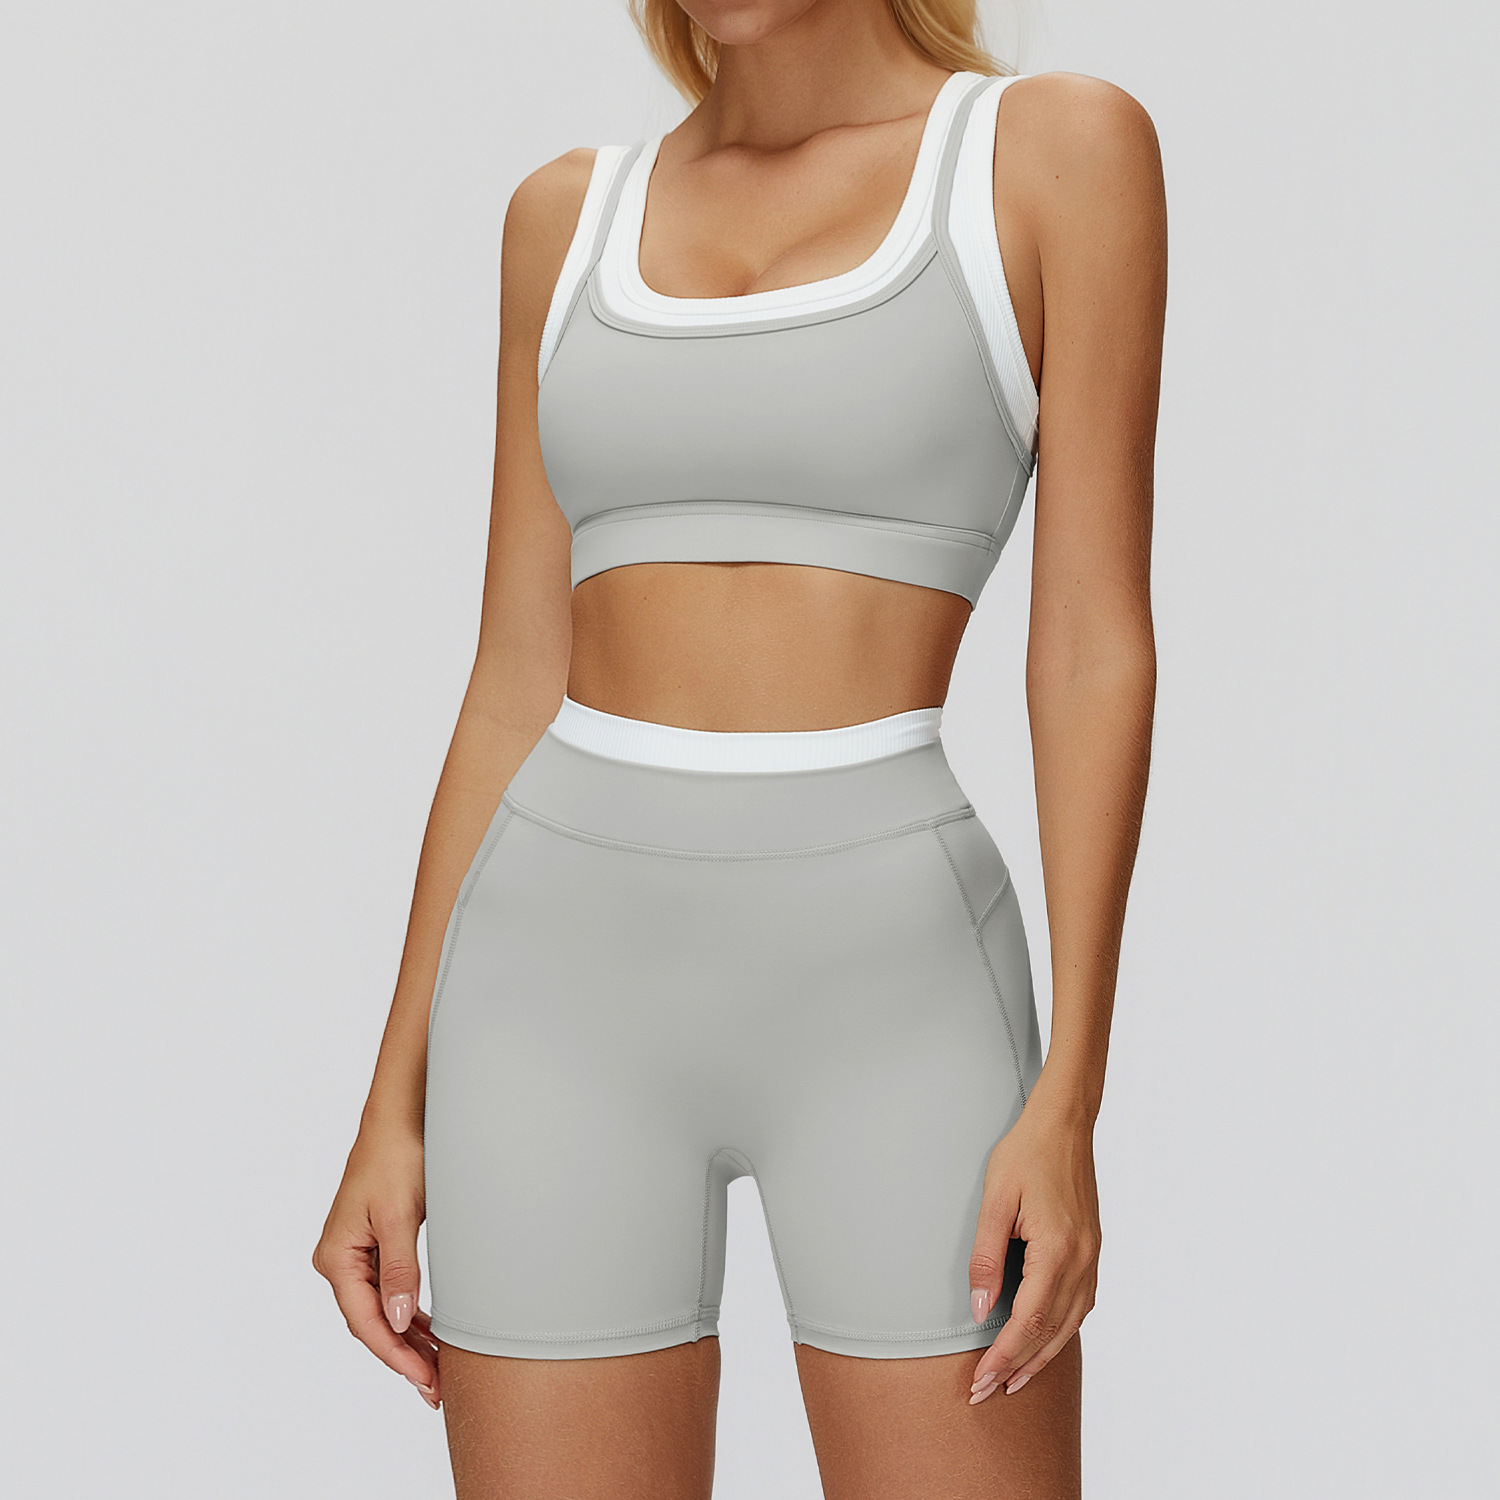
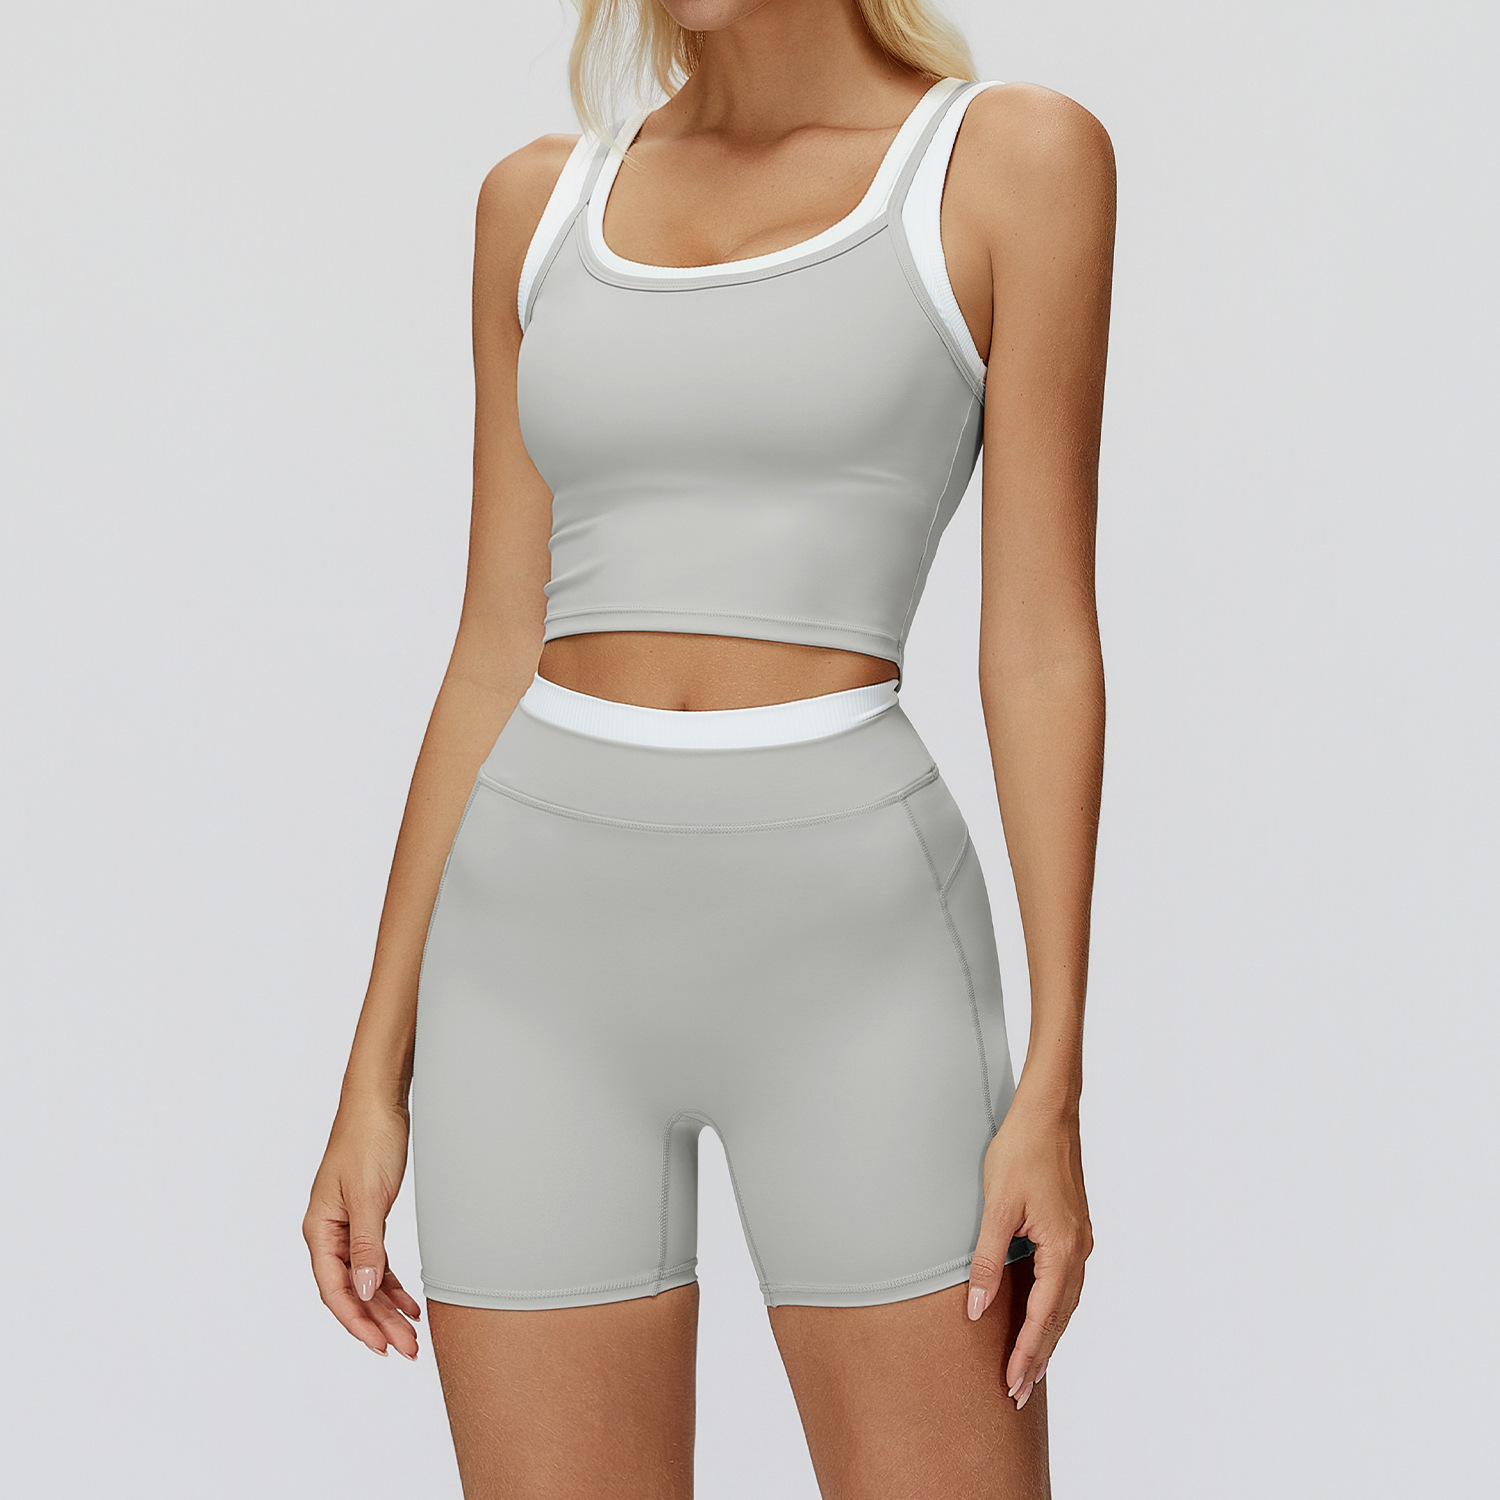
price fix

Changed region(s): [[0.184, 0.0, 0.7973, 1.0]]

diff --git a/app/plugins/paystack.client.ts b/app/plugins/paystack.client.ts
@@ -1,74 +1,12 @@
-const PAYSTACK_SCRIPT_SRC = 'https://js.paystack.co/v1/inline.js'
-
-type PaystackTransactionOptions = Record<string, unknown>
-
-type PaystackSetup = {
-  setup: (options: PaystackTransactionOptions) => {
-    openIframe: () => void
-  }
-}
-
-type PaystackWindow = Window & {
-  PaystackPop?: PaystackSetup
-}
+import PaystackPop, { type PaystackTransactionOptions } from '@paystack/inline-js'
 
 type CreatePaystackTransaction = (options: PaystackTransactionOptions) => Promise<unknown>
 
-let paystackScriptPromise: Promise<PaystackSetup> | undefined
-
-const getPaystack = () => (window as PaystackWindow).PaystackPop
-
-const loadPaystack = () => {
-  const currentPaystack = getPaystack()
-
-  if (currentPaystack) {
-    return Promise.resolve(currentPaystack)
-  }
-
-  if (!paystackScriptPromise) {
-    paystackScriptPromise = new Promise((resolve, reject) => {
-      const existingScript = document.querySelector<HTMLScriptElement>(
-        `script[src="${PAYSTACK_SCRIPT_SRC}"]`,
-      )
-
-      const resolvePaystack = () => {
-        const loadedPaystack = getPaystack()
-
-        if (loadedPaystack) {
-          resolve(loadedPaystack)
-        } else {
-          reject(new Error('Paystack script loaded without PaystackPop.'))
-        }
-      }
-
-      if (existingScript) {
-        existingScript.addEventListener('load', resolvePaystack, { once: true })
-        existingScript.addEventListener('error', () => reject(new Error('Paystack script failed.')), {
-          once: true,
-        })
-        return
-      }
-
-      const script = document.createElement('script')
-      script.async = true
-      script.src = PAYSTACK_SCRIPT_SRC
-      script.addEventListener('load', resolvePaystack, { once: true })
-      script.addEventListener('error', () => reject(new Error('Paystack script failed.')), {
-        once: true,
-      })
-      document.head.appendChild(script)
-    })
-  }
-
-  return paystackScriptPromise
-}
+const paystack = new PaystackPop()
 
 export default defineNuxtPlugin(() => {
   const createPaystackTransaction: CreatePaystackTransaction = async (options) => {
-    const paystack = await loadPaystack()
-    const handler = paystack.setup(options)
-
-    handler.openIframe()
+    return paystack.newTransaction(options)
   }
 
   return {

diff --git a/app/data/homeContent.ts b/app/data/homeContent.ts
@@ -30,7 +30,7 @@ export const products: HomepageProduct[] = [
   {
     name: 'Jackets',
     slug: 'jackets',
-    priceKes: 7800,
+    priceKes: 3780,
     category: 'Outerwear',
     colours: [
       { name: 'Black', value: '#111111', imageUrl: '/images/products/Jackets/b-2.jpg' },
@@ -57,7 +57,7 @@ export const products: HomepageProduct[] = [
   {
     name: 'Long Sleeve, Round Neck',
     slug: 'long-sleeve-round-neck',
-    priceKes: 8200,
+    priceKes: 2680,
     category: 'Tops',
     colours: [
       { name: 'Black', value: '#111111', imageUrl: '/images/products/Long sleeve, round neck/b-t.jpg' },
@@ -85,29 +85,20 @@ export const products: HomepageProduct[] = [
   {
     name: 'Long Sleeve, Swirl Neck',
     slug: 'long-sleeve-swirl-neck',
-    priceKes: 7600,
+    priceKes: 2980,
     category: 'Tops',
     colours: [
       { name: 'Black', value: '#111111', imageUrl: '/images/products/Long sleeve, swirl neck/bb-sw.jpg' },
-      { name: 'Blue', value: '#253b54', imageUrl: '/images/products/Long sleeve, swirl neck/bl-sw.jpg' },
       { name: 'Brown', value: '#6f4631', imageUrl: '/images/products/Long sleeve, swirl neck/br-sw.jpg' },
-      { name: 'Green', value: '#586447', imageUrl: '/images/products/Long sleeve, swirl neck/gr-sw.jpg' },
       { name: 'Off white', value: '#efe7dc', imageUrl: '/images/products/Long sleeve, swirl neck/ow-sw.jpg' },
-      { name: 'Pink', value: '#d8a0a7', imageUrl: '/images/products/Long sleeve, swirl neck/pi-sw.jpg' },
-      { name: 'Red', value: '#9f2526', imageUrl: '/images/products/Long sleeve, swirl neck/rd-sw.jpg' },
     ],
     isNew: true,
-    imageUrl: '/images/products/Long sleeve, swirl neck/bb-sw.jpg',
+    imageUrl: '/images/products/Long sleeve, swirl neck/bl-sw.jpg',
     imageTone: 'linear-gradient(135deg, #000000, #4a481d)',
     galleryImages: [
-      '/images/products/Long sleeve, swirl neck/bb-sw.jpg',
       '/images/products/Long sleeve, swirl neck/bl-sw.jpg',
       '/images/products/Long sleeve, swirl neck/br-sw.jpg',
-      '/images/products/Long sleeve, swirl neck/gr-sw.jpg',
-      '/images/products/Long sleeve, swirl neck/gu-sw.jpg',
       '/images/products/Long sleeve, swirl neck/ow-sw.jpg',
-      '/images/products/Long sleeve, swirl neck/pi-sw.jpg',
-      '/images/products/Long sleeve, swirl neck/rd-sw.jpg',
       '/images/products/Long sleeve, swirl neck/details.png',
     ],
     sizeGuideText:
@@ -116,33 +107,31 @@ export const products: HomepageProduct[] = [
   {
     name: 'Minit T-Shirt',
     slug: 'minit-t-shirt',
-    priceKes: 2800,
+    priceKes: 2980,
     category: 'Tops',
     colours: [
-      { name: 'Black', value: '#111111', imageUrl: '/images/products/Mini T-Shirt/mini black tshirt.jpg' },
-      { name: 'Blue', value: '#253b54', imageUrl: '/images/products/Mini T-Shirt/mini black tshirt BLUE.jpg' },
-      { name: 'Brown', value: '#6f4631', imageUrl: '/images/products/Mini T-Shirt/mini black tshirt BROWN.jpg' },
+      { name: 'Black', value: '#111111', imageUrl: '/images/products/Mini T-Shirt/creme.jpg' },
+      { name: 'Blue', value: '#253b54', imageUrl: '/images/products/Mini T-Shirt/black.jpg' },
+      { name: 'Brown', value: '#6f4631', imageUrl: '/images/products/Mini T-Shirt/brown.jpg' },
       {
         name: 'Red Stripe',
         value: 'repeating-linear-gradient(90deg, #111111 0 8px, #9f2526 8px 14px)',
-        imageUrl: '/images/products/Mini T-Shirt/mini black tshirt RED STRIPE.jpg',
+        imageUrl: '/images/products/Mini T-Shirt/brown.jpg',
       },
     ],
     isNew: true,
-    imageUrl: '/images/products/Mini T-Shirt/mini black tshirt.jpg',
+    imageUrl: '/images/products/Mini T-Shirt/black.jpg',
     imageTone: 'linear-gradient(135deg, #111111, #253b54)',
     galleryImages: [
-      '/images/products/Mini T-Shirt/mini black tshirt.jpg',
-      '/images/products/Mini T-Shirt/mini black tshirt BLUE.jpg',
-      '/images/products/Mini T-Shirt/mini black tshirt BLUE BACK.jpg',
-      '/images/products/Mini T-Shirt/mini black tshirt BROWN.jpg',
-      '/images/products/Mini T-Shirt/mini black tshirt RED STRIPE.jpg',
+      '/images/products/Mini T-Shirt/black.jpg',
+      '/images/products/Mini T-Shirt/brown.jpg',
+      '/images/products/Mini T-Shirt/creme.jpg',
     ],
   },
   {
     name: 'Sahara Corsage Set',
     slug: 'sahara-corsage-set',
-    priceKes: 6200,
+    priceKes: 5060,
     category: 'Sets',
     colours: [
       { name: 'Beige', value: '#d7d4c9', imageUrl: '/images/products/Sahara/beige.jpg' },
@@ -161,7 +150,7 @@ export const products: HomepageProduct[] = [
   {
     name: 'Strappy Bra',
     slug: 'strappy-bra',
-    priceKes: 2800,
+    priceKes: 2680,
     category: 'Tops',
     colours: [
       { name: 'Black', value: '#111111', imageUrl: '/images/products/Bra/black.jpg' },
@@ -180,7 +169,7 @@ export const products: HomepageProduct[] = [
   {
     name: 'Cropped Training Tee',
     slug: 'cropped-training-tee',
-    priceKes: 2800,
+    priceKes: 2980,
     category: 'Tops',
     colours: [
       { name: 'Black', value: '#111111', imageUrl: '/images/products/Tops/black.jpg' },
@@ -199,23 +188,19 @@ export const products: HomepageProduct[] = [
   {
     name: 'Nuru Short Set',
     slug: 'nuru-short-set',
-    priceKes: 6200,
+    priceKes: 4920,
     category: 'Sets',
     colours: [
-      { name: 'Birch', value: '#c9cbc6', imageUrl: '/images/products/Nuru, Short Set/bi-ss.jpg' },
-      { name: 'Black', value: '#111111', imageUrl: '/images/products/Nuru, Short Set/bl-ss.jpg' },
-      { name: 'Brown', value: '#6f4631', imageUrl: '/images/products/Nuru, Short Set/br-ss.jpg' },
-      { name: 'Lilac', value: '#b9a9c8', imageUrl: '/images/products/Nuru, Short Set/ll-ss.jpg' },
-      { name: 'Pink', value: '#d8a0a7', imageUrl: '/images/products/Nuru, Short Set/pk-ss.jpg' },
+      { name: 'Beige', value: '#c9cbc6', imageUrl: '/images/products/Nuru, Short Set/beige.jpg' },
+      { name: 'Black', value: '#111111', imageUrl: '/images/products/Nuru, Short Set/black.jpg' },
+      { name: 'Brown', value: '#6f4631', imageUrl: '/images/products/Nuru, Short Set/brown.jpg' },
     ],
-    imageUrl: '/images/products/Nuru, Short Set/bi-ss.jpg',
+    imageUrl: '/images/products/Nuru, Short Set/beige.jpg',
     imageTone: 'linear-gradient(135deg, #d7c1a9, #4a481d)',
     galleryImages: [
-      '/images/products/Nuru, Short Set/bi-ss.jpg',
-      '/images/products/Nuru, Short Set/bl-ss.jpg',
-      '/images/products/Nuru, Short Set/br-ss.jpg',
-      '/images/products/Nuru, Short Set/ll-ss.jpg',
-      '/images/products/Nuru, Short Set/pk-ss.jpg',
+      '/images/products/Nuru, Short Set/beige.jpg',
+      '/images/products/Nuru, Short Set/black.jpg',
+      '/images/products/Nuru, Short Set/brown.jpg',
     ],
   },
   {

diff --git a/app/pages/checkout/index.vue b/app/pages/checkout/index.vue
@@ -99,6 +99,8 @@ const paystackPublicKey = computed(() => config.public.paystackPublicKey)
 const isPaymentConfigured = computed(() => Boolean(paystackPublicKey.value))
 
 type PaystackInline = {
+  id?: number
+  message?: string
   reference: string
 }
 
@@ -113,6 +115,15 @@ type VerifyPaymentResponse = {
   paid: boolean
   status: string
   reference: string
+}
+
+type FetchErrorLike = {
+  data?: {
+    statusMessage?: string
+    message?: string
+  }
+  statusMessage?: string
+  message?: string
 }
 
 const isPaymentButtonDisabled = computed(() => isPaymentLoading.value || !isPaymentConfigured.value)
@@ -131,6 +142,19 @@ const getCustomerNames = () => {
     firstName,
     lastName: lastNameParts.join(' '),
   }
+}
+
+const getCheckoutErrorMessage = (error: unknown) => {
+  const fetchError = error as FetchErrorLike
+  const message =
+    fetchError.data?.statusMessage ||
+    fetchError.data?.message ||
+    fetchError.statusMessage ||
+    fetchError.message
+
+  return message
+    ? `Checkout could not start: ${message}`
+    : 'Checkout could not start. Please refresh and try again.'
 }
 
 const startPayment = async () => {
@@ -171,10 +195,9 @@ const startPayment = async () => {
       email: customer.email,
       amount: payment.amountKes * 100,
       currency: payment.currency,
-      firstname: firstName,
-      lastname: lastName,
+      firstName,
+      lastName,
       phone: customer.phone,
-      ref: payment.reference,
       reference: payment.reference,
       metadata: {
         orderId: payment.orderId,
@@ -198,7 +221,7 @@ const startPayment = async () => {
           },
         ],
       },
-      callback: async (transaction: PaystackInline) => {
+      onSuccess: async (transaction: PaystackInline) => {
         hasPaymentCallback = true
         const reference = transaction.reference || payment.reference
         paymentMessage.value = 'Confirming payment.'
@@ -230,7 +253,7 @@ const startPayment = async () => {
           paymentMessage.value = ''
         }
       },
-      onClose: () => {
+      onCancel: () => {
         if (hasPaymentCallback) {
           return
         }
@@ -238,9 +261,17 @@ const startPayment = async () => {
         isPaymentLoading.value = false
         paymentMessage.value = 'Payment cancelled. You can try again when ready.'
       },
+      onError: (error: { message?: string }) => {
+        isPaymentLoading.value = false
+        paymentMessage.value = ''
+        paymentError.value = error.message
+          ? `Paystack could not open: ${error.message}`
+          : 'Paystack could not open. Please refresh and try again.'
+      },
     })
-  } catch {
-    paymentError.value = 'Checkout could not start. Please refresh and try again.'
+  } catch (error) {
+    paymentMessage.value = ''
+    paymentError.value = getCheckoutErrorMessage(error)
   } finally {
     if (paymentError.value) {
       isPaymentLoading.value = false

diff --git a/server/utils/paystack.ts b/server/utils/paystack.ts
@@ -24,20 +24,26 @@ const terminalFailureStatuses = new Set(['abandoned', 'failed'])
 
 export const getPaystackSecretKey = () => {
   const config = useRuntimeConfig()
+  const paystackSecretKey =
+    typeof config.paystackSecretKey === 'string' ? config.paystackSecretKey : ''
 
-  if (!config.paystackSecretKey) {
+  if (!paystackSecretKey) {
     throw createError({
       statusCode: 500,
       statusMessage: 'Paystack secret key is not configured.',
     })
   }
 
-  return config.paystackSecretKey
+  return paystackSecretKey
 }
 
 export const getPaystackWebhookSecret = () => {
   const config = useRuntimeConfig()
-  const webhookSecret = config.paystackWebhookSecret || config.paystackSecretKey
+  const paystackSecretKey =
+    typeof config.paystackSecretKey === 'string' ? config.paystackSecretKey : ''
+  const paystackWebhookSecret =
+    typeof config.paystackWebhookSecret === 'string' ? config.paystackWebhookSecret : ''
+  const webhookSecret = paystackWebhookSecret || paystackSecretKey
 
   if (!webhookSecret) {
     throw createError({

diff --git a/server/utils/supabaseAdmin.ts b/server/utils/supabaseAdmin.ts
@@ -6,8 +6,9 @@ const websocketTransport = WebSocket as unknown as typeof globalThis.WebSocket
 
 export const getSupabaseAdmin = () => {
   const config = useRuntimeConfig()
-  const supabaseUrl = config.public.supabaseUrl
-  const secretKey = config.supabaseSecretKey
+  const supabaseUrl =
+    typeof config.public.supabaseUrl === 'string' ? config.public.supabaseUrl : ''
+  const secretKey = typeof config.supabaseSecretKey === 'string' ? config.supabaseSecretKey : ''
 
   if (!supabaseUrl || !secretKey) {
     throw createError({

diff --git a/01-tech-stack-database-payments.md b/01-tech-stack-database-payments.md
@@ -320,8 +320,8 @@ Use the product sheet as initial seed data.
 ```env
 NUXT_PUBLIC_SITE_URL=
 NUXT_PUBLIC_SUPABASE_URL=
-NUXT_PUBLIC_SUPABASE_ANON_KEY=
-SUPABASE_SERVICE_ROLE_KEY=
+NUXT_PUBLIC_SUPABASE_PUBLISHABLE_KEY=
+NUXT_SUPABASE_SECRET_KEY=
 
 PAYSTACK_PUBLIC_KEY=
 PAYSTACK_SECRET_KEY=